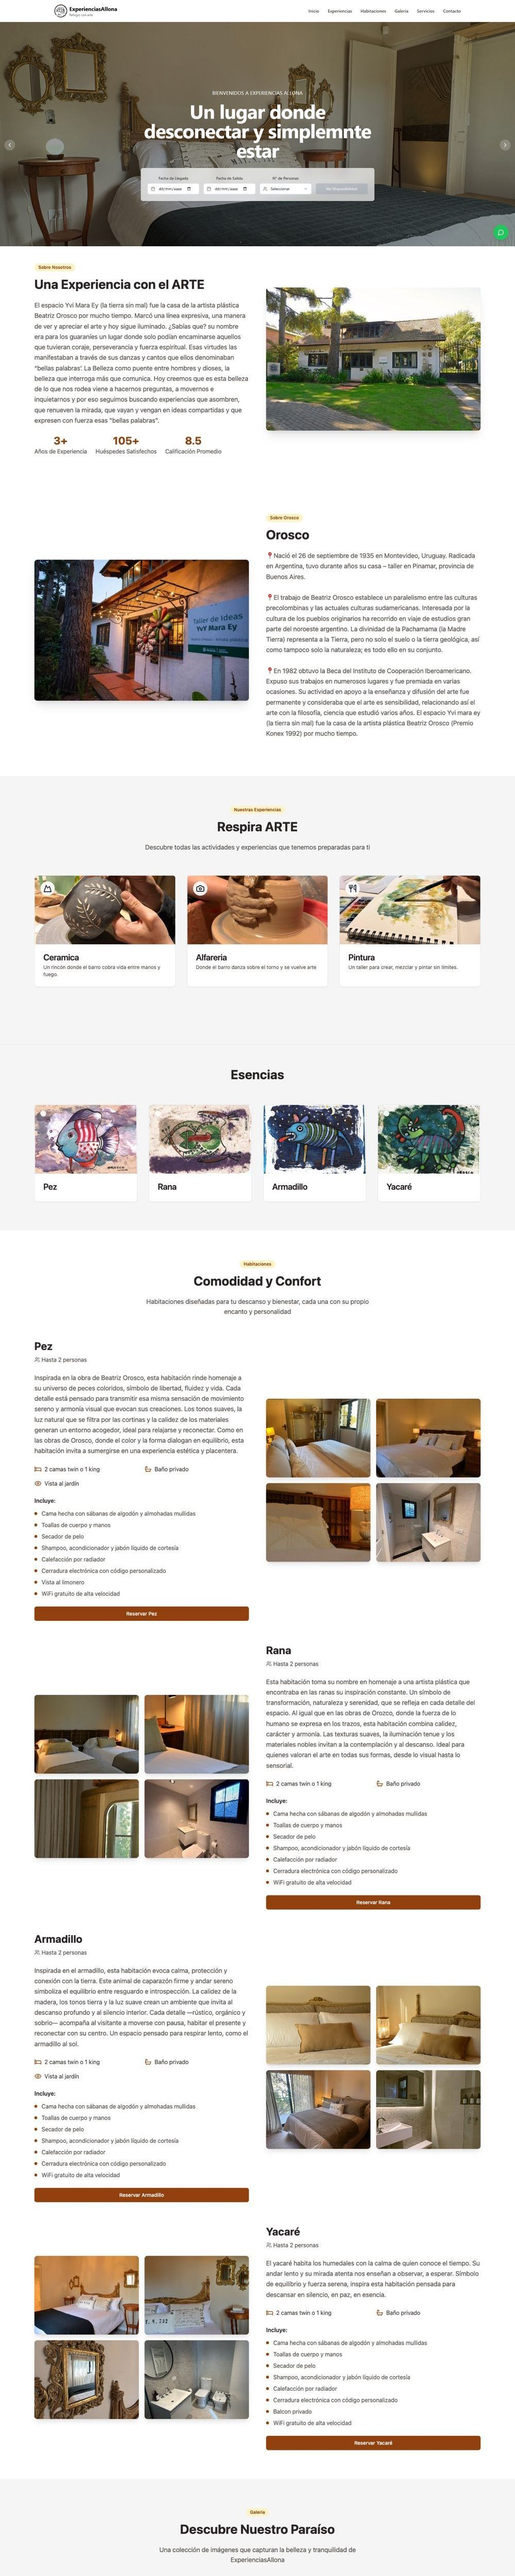
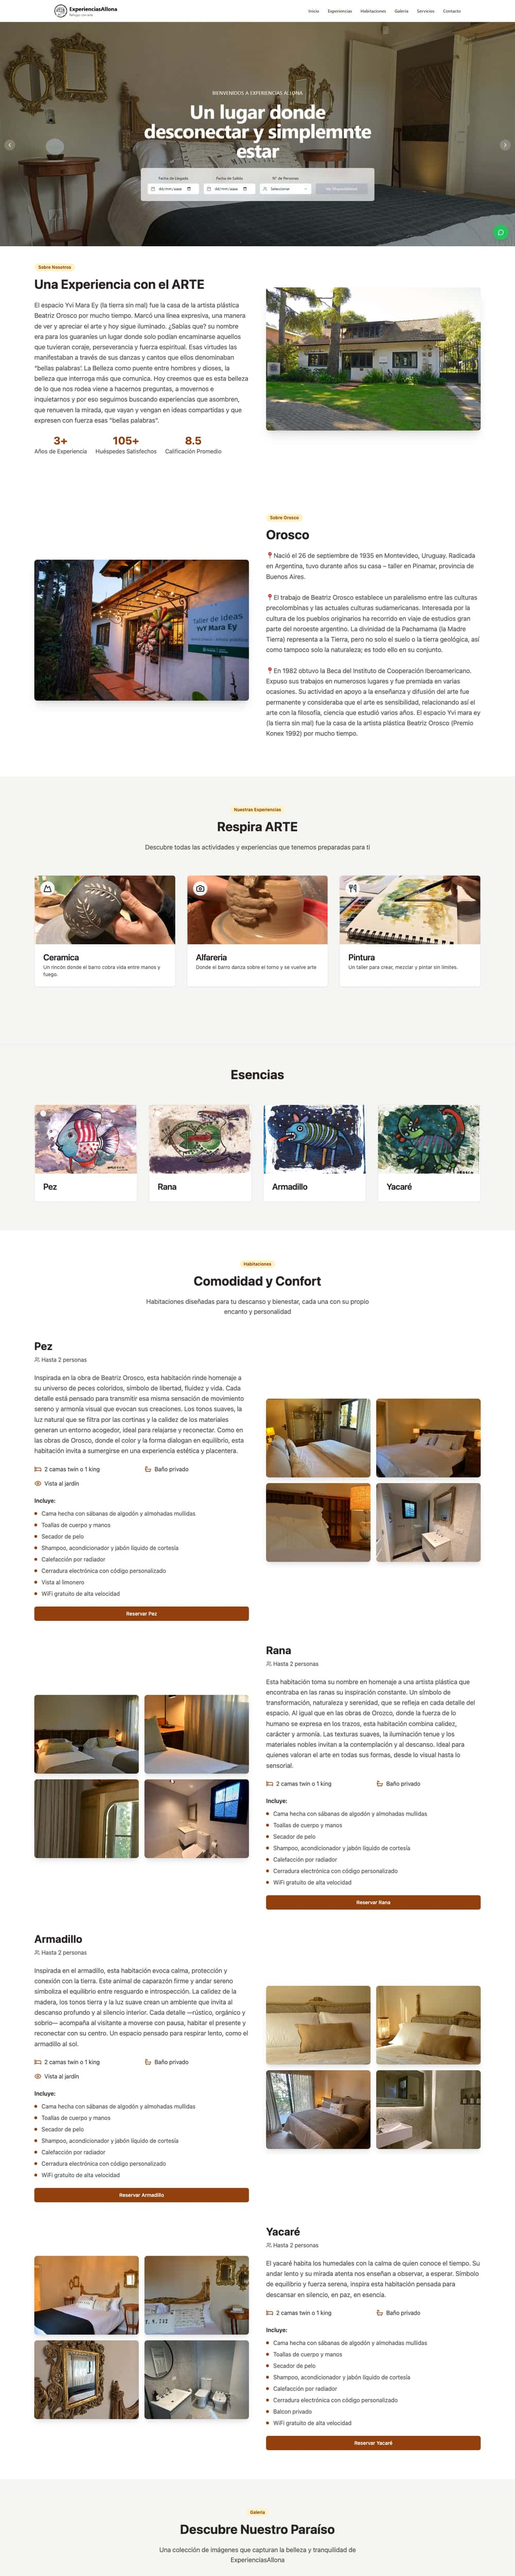
perf: carga las capturas de proyectos en segundo plano
- Recomprime las capturas de public/previews (~1,75 MB a ~575 KB)
- El loader espera solo las imágenes livianas; las capturas completas se
  cargan después del primer frame, escalonadas, y se intercambian al llegar

diff --git a/components/experience/gallery.tsx b/components/experience/gallery.tsx
@@ -1,12 +1,12 @@
 "use client"
 
-import { useLayoutEffect, useMemo, useRef } from "react"
+import { useEffect, useLayoutEffect, useMemo, useRef } from "react"
 import { useFrame, useThree } from "@react-three/fiber"
 import { useTexture } from "@react-three/drei"
-import { Color, Group, ShaderMaterial, SRGBColorSpace, Texture } from "three"
+import { Color, Group, ShaderMaterial, SRGBColorSpace, Texture, TextureLoader } from "three"
 import { caseStudies } from "@/data/case-studies"
 import { KEYS, PROJECT_START } from "@/lib/path"
-import { damp, world } from "@/lib/world"
+import { damp, sceneReady, world } from "@/lib/world"
 import { planeFrag, planeVert } from "./shaders"
 import { pal } from "./state"
 
@@ -17,7 +17,7 @@ const pingPong = (x: number) => {
 }
 const smooth = (x: number) => x * x * (3 - 2 * x)
 
-function ProjectPlane({ index, image }: { index: number; image: string }) {
+function ProjectPlane({ index, image, preview }: { index: number; image: string; preview?: string }) {
   const narrow = useThree((s) => s.size.width < 768)
   const tex = useTexture(image) as Texture
   const group = useRef<Group>(null)
@@ -59,6 +59,32 @@ function ProjectPlane({ index, image }: { index: number; image: string }) {
     [tex],
   )
 
+  // The tall site capture is heavy: fetch it after the first frame instead of
+  // making the loader wait for it, then swap it in.
+  useEffect(() => {
+    if (!preview) return
+    let cancelled = false
+    let loaded: Texture | null = null
+    sceneReady.on(() => {
+      window.setTimeout(() => {
+        if (cancelled) return
+        new TextureLoader().load(preview, (t) => {
+          if (cancelled) return t.dispose()
+          t.colorSpace = SRGBColorSpace
+          t.anisotropy = 8
+          loaded = t
+          const img = t.image as HTMLImageElement
+          material.uniforms.uTex.value = t
+          material.uniforms.uTexAspect.value = img.width / img.height
+        })
+      }, 800 + index * 500)
+    })
+    return () => {
+      cancelled = true
+      loaded?.dispose()
+    }
+  }, [preview, material, index])
+
   useFrame((_, rawDt) => {
     const dt = Math.min(rawDt, 0.05)
     const u = material.uniforms
@@ -97,7 +123,7 @@ export function Gallery() {
   return (
     <>
       {caseStudies.map((project, i) => (
-        <ProjectPlane key={project.id} index={i} image={project.preview ?? project.image} />
+        <ProjectPlane key={project.id} index={i} image={project.image} preview={project.preview} />
       ))}
     </>
   )
